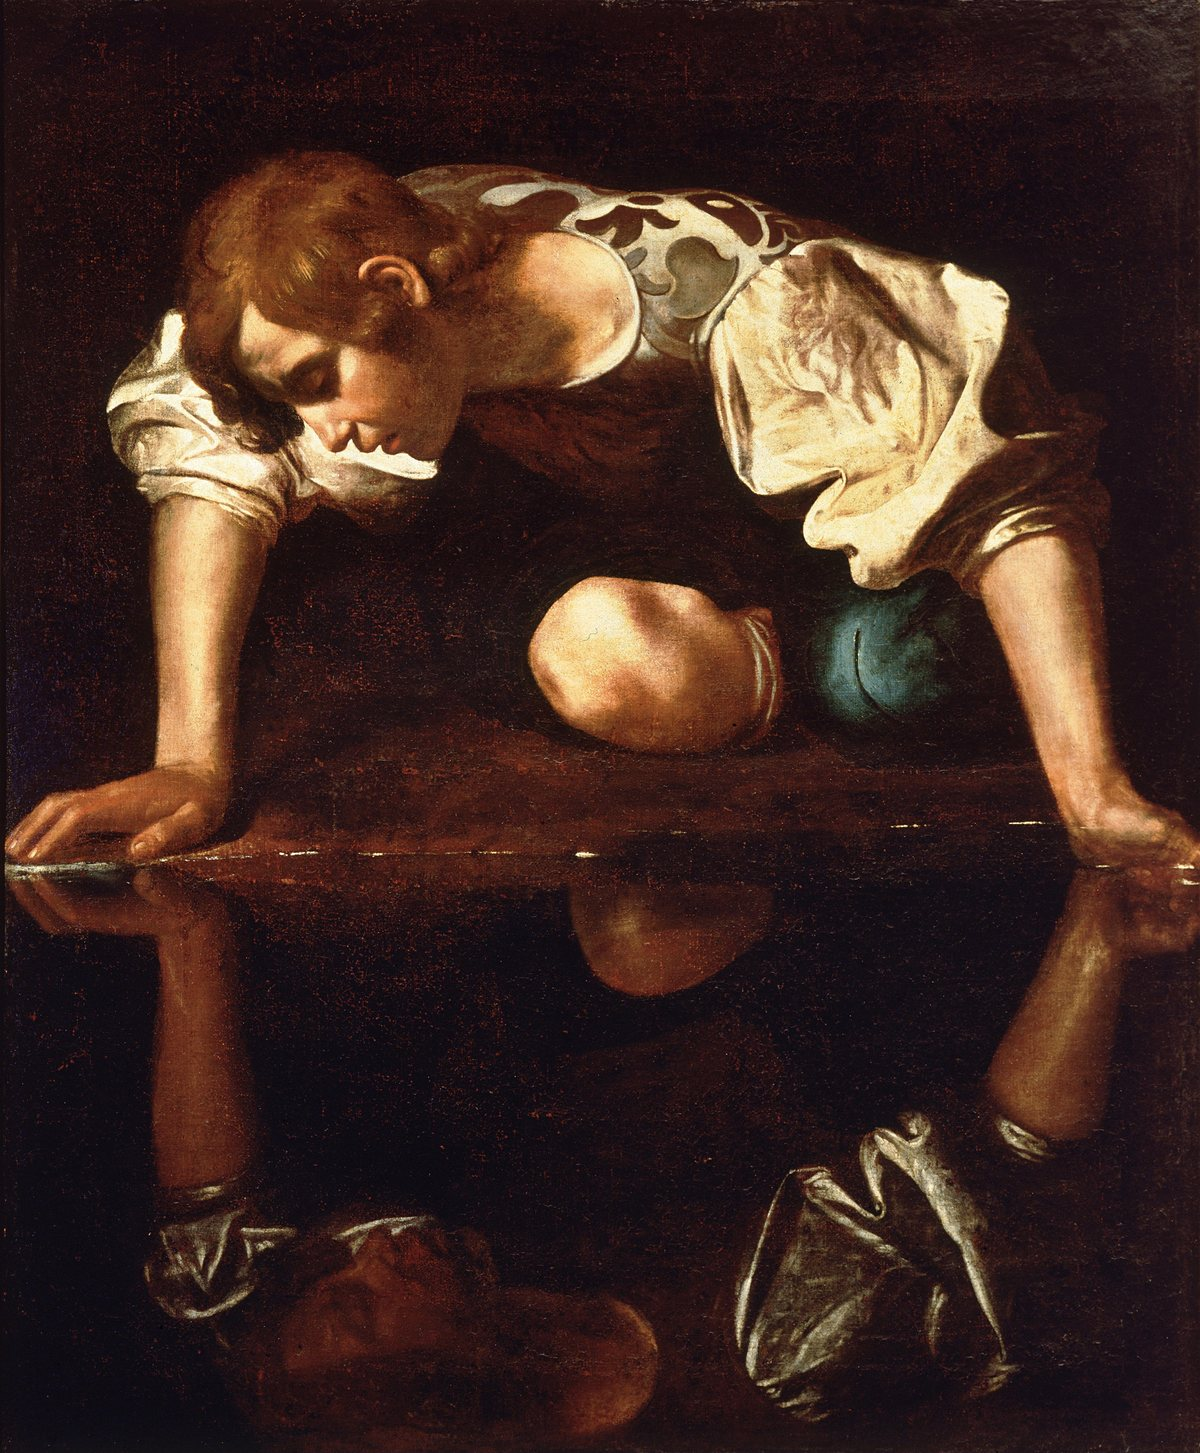
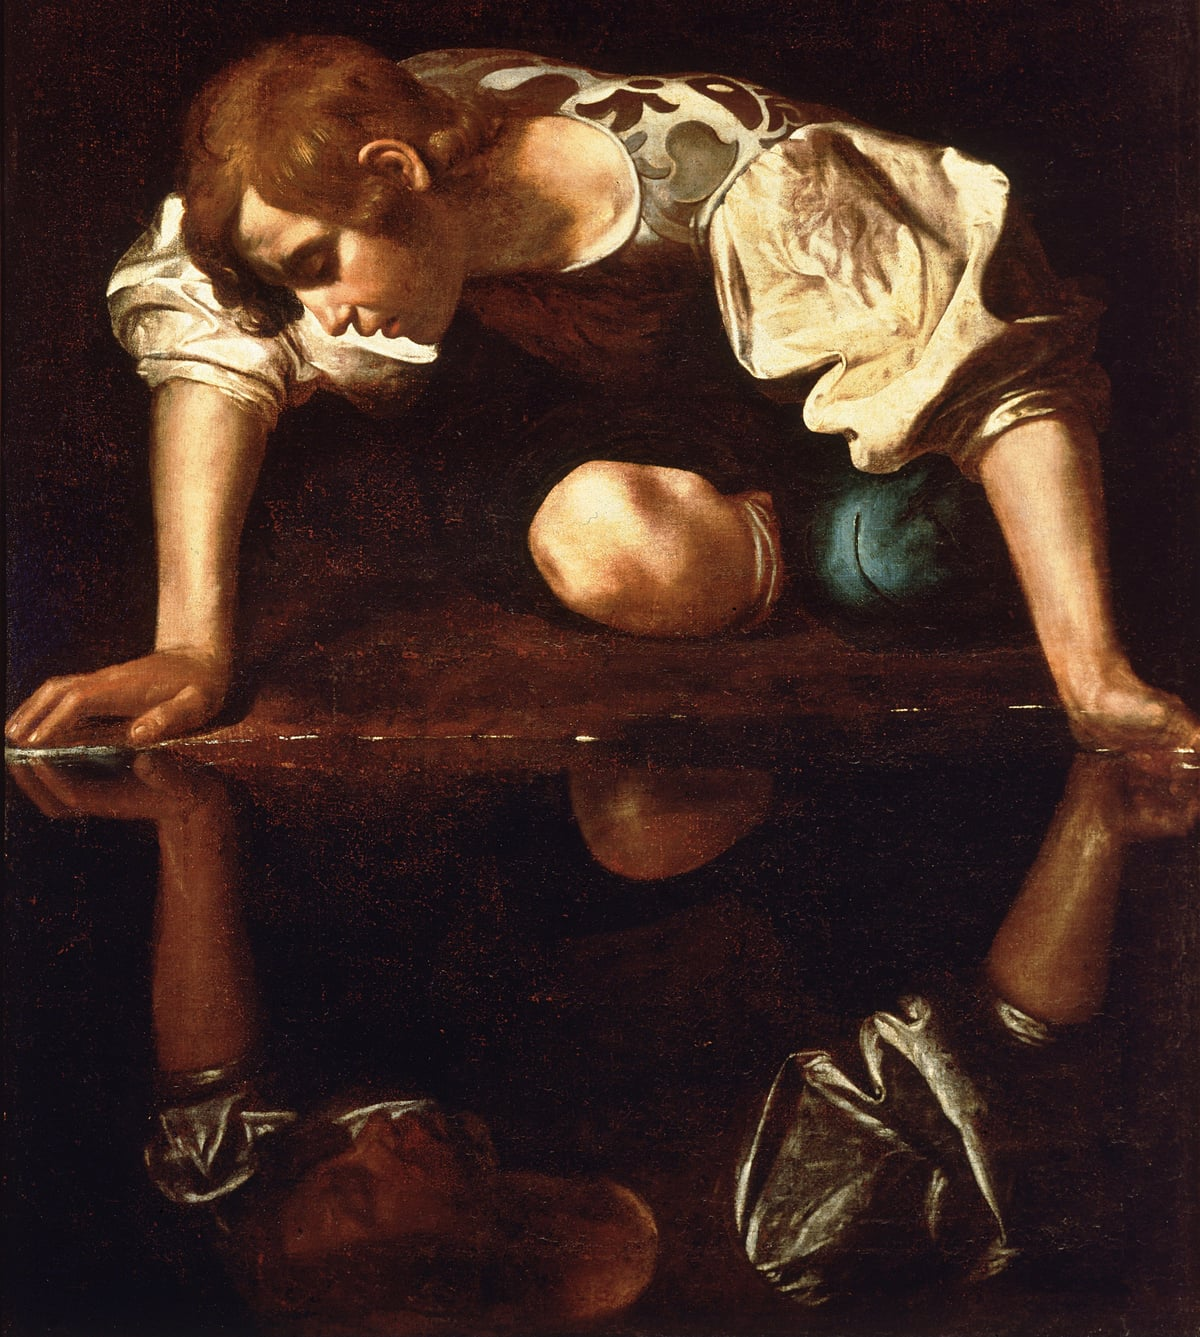
fix: make the ascii narcissus readable (#32)
The first grid (96 columns, histogram equalization, a random glyph within
each density class) lost the silhouette: the texture read as noise.

- 160 x 107 grid with a percentile stretch, an empty floor and a gamma
  that lifts the half-lit paint (the face, the reflection)
- one glyph per tone, chosen by the ink coverage Geist Mono has at
  weight 600, measured on a canvas; the art is drawn at that weight
- the painting copy drops its empty top band so the figure fills the box
- beside the text the art takes a wider column and grows as large as
  one screen allows, caption included
- the lit layer is brighter on dark and deeper on the light theme
- name and role stack in the hero instead of wrapping around a dot

diff --git a/tests/content/art.test.ts b/tests/content/art.test.ts
@@ -18,9 +18,9 @@ describe('the ASCII painting', () => {
     for (const line of lines) expect(line).toHaveLength(columns);
   });
 
-  it('keeps the proportions of the painting (1200 x 1453) for cells 0.6 wide', () => {
+  it('keeps the proportions of the painting (1200 x 1337) for cells 0.6 wide', () => {
     const ratio = (columns * 0.6) / lines.length;
-    expect(ratio).toBeCloseTo(1200 / 1453, 1);
+    expect(ratio).toBeCloseTo(1200 / 1337, 2);
   });
 
   it('uses printable ASCII only, so any monospace font draws every cell', () => {

diff --git a/docs/adr/0018-chiaroscuro-redesign.md b/docs/adr/0018-chiaroscuro-redesign.md
@@ -46,12 +46,16 @@ This site's budget is 75 kB of JavaScript in total, and it was at 72.3 kB.
   Literata is OFL; it is instanced to the display optical size and weights 300 to 500 and
   subset to Latin: 43 kB instead of 110 kB, preloaded.
 - **The ASCII painting is text, not WebGL.** `scripts/generate-ascii.mjs` (sharp) turns a
-  1200 px copy of the painting into a 96 x 70 grid once: histogram equalization, an empty
-  floor for the dark ground, a soft vignette, and a random pick within each density class
-  (seeded, so the output is stable). The grid is committed. `AsciiArt.astro` stacks two copies
+  1200 px copy of the painting (its empty top band cropped) into a 160 x 107 grid once: a
+  percentile stretch, an empty floor for the dark ground, a gamma that lifts the half-lit paint,
+  and one glyph per tone chosen by the share of the cell that Geist Mono inks at weight 600,
+  measured on a canvas. The grid is committed. A first version (96 columns, histogram
+  equalization, a random glyph within each density class) lost the silhouette: the texture
+  read as noise, so it was replaced. `AsciiArt.astro` stacks two copies
   of the text: ochre ink, and the same characters filled with a 192 px copy of the painting
   (`background-clip: text`). A lamp follows a fine pointer and shows the true colours around
-  it; a click or the labelled switch floods the whole figure with them. Masks and registered
+  it; a click or the labelled switch floods the whole figure with them. Beside the text the figure is
+  as wide as its column allows while it and its caption fit in one screen. Masks and registered
   custom properties do the animation; the script is under 1 kB and inline. The ink develops
   outward on first paint unless the visitor prefers reduced motion. Screen readers get one
   image with a description, and the caption credits the painting.
@@ -80,7 +84,7 @@ This site's budget is 75 kB of JavaScript in total, and it was at 72.3 kB.
 
 - JavaScript stays at 72.4 kB of the 75 kB budget: the new behaviour is inline script and CSS.
 - Pages download one more font file (43 kB) and the home page a 192 px WebP; the ASCII text is
-  about 7 kB of HTML.
+  about 17 kB, drawn twice (ink and paint), which gzip reduces to a few kB.
 - The prices are public commitments to a floor. They are set in content, reviewed like any
   other copy, and must be kept current.
 - Changing the painting or the grid size means running `pnpm ascii` and committing the output;

diff --git a/src/assets/art/README.md b/src/assets/art/README.md
@@ -1,7 +1,8 @@
 # Art
 
 - `narcissus.jpg`: Caravaggio, _Narcissus_ (about 1597-1599), public domain. A 1200 px web copy
-  of a high-resolution scan; the original stays out of the repository.
+  of a high-resolution scan, with the empty top 8 % cropped so the figure fills the hero; the
+  original stays out of the repository.
 - `narcissus.txt`: the same painting as text, generated by `pnpm ascii`
   (`scripts/generate-ascii.mjs`). Committed, so a build never depends on the script. Run it again
   only after changing the image or the settings at the top of the script.
